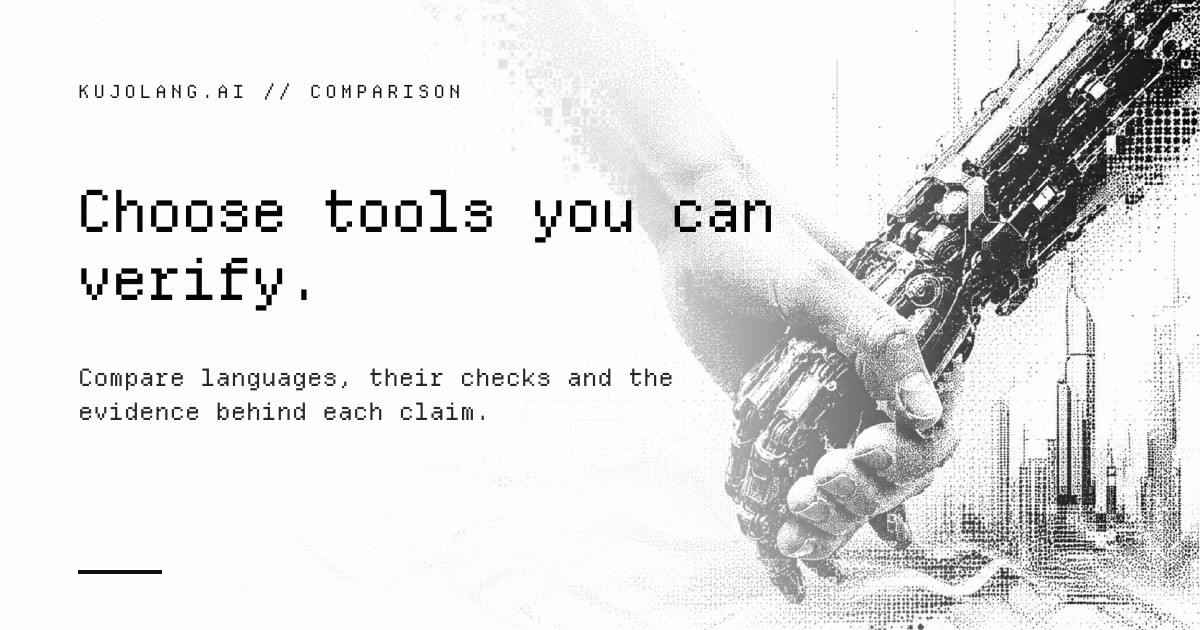
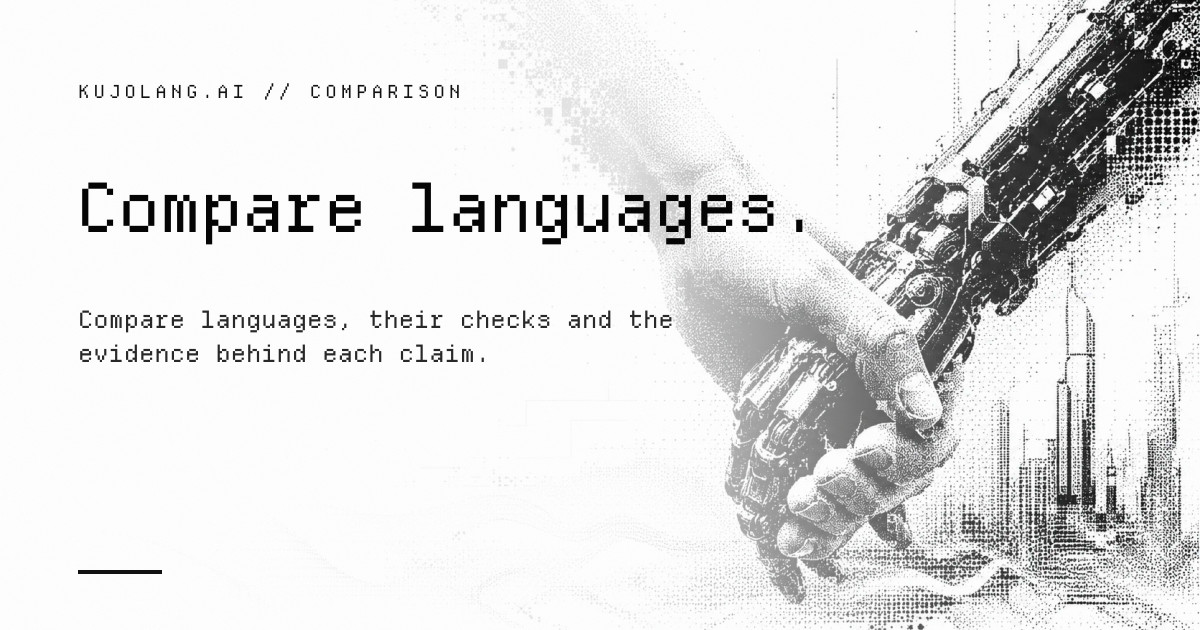
fix(compare): simplify hero headings and remove eyebrow labels

Changed region(s): [[0.0617, 0.2714, 0.6475, 0.6635]]

diff --git a/templates/page-compare.html b/templates/page-compare.html
@@ -1,7 +1,7 @@
 <!-- Generated by render-comparisons.mjs from comparison/catalog.json. -->
 <main class="comparison-hub" id="main-content">
 <div class="hub-shell"><nav class="comparison-breadcrumbs" aria-label="Breadcrumb"><a href="/">Home</a> / <span aria-current="page">Compare</span></nav>
-<header class="hub-hero"><div><p class="hub-kicker">A guide to languages and workflow tools</p><h1>Choose tools you<br>can verify.</h1><p class="hub-intro">Compare how four languages help you check software.</p><p>Compare how each language runs, what its checks establish and what evidence you can inspect afterward.</p><div class="hub-actions"><a class="sk-button" href="#capabilities">Compare capabilities <span aria-hidden="true">↓</span></a><a href="#choose">Find your starting point ↗</a></div></div><aside class="hub-orientation" aria-label="Four approaches to software confidence"><p class="hub-kicker">Start with the requirement</p><a href="#profile-0"><span>01</span><strong>Kujo</strong><small>Language + workflow tools</small><b aria-hidden="true">↗</b></a><a href="#profile-1"><span>02</span><strong>Bend</strong><small>Laws + language-level proofs</small><b aria-hidden="true">↗</b></a><a href="#profile-2"><span>03</span><strong>BAML</strong><small>AI functions + application integration</small><b aria-hidden="true">↗</b></a><a href="#profile-3"><span>04</span><strong>Zero</strong><small>Systems language · developer preview</small><b aria-hidden="true">↗</b></a><p>Language checks, ecosystem tools and runtime boundaries solve different problems.</p></aside></header>
+<header class="hub-hero"><div><h1>Compare languages.</h1><p class="hub-intro">Compare how four languages help you check software.</p><p>Compare how each language runs, what its checks establish and what evidence you can inspect afterward.</p><div class="hub-actions"><a class="sk-button" href="#capabilities">Compare capabilities <span aria-hidden="true">↓</span></a><a href="#choose">Find your starting point ↗</a></div></div><aside class="hub-orientation" aria-label="Four approaches to software confidence"><a href="#profile-0"><span>01</span><strong>Kujo</strong><small>Language + workflow tools</small><b aria-hidden="true">↗</b></a><a href="#profile-1"><span>02</span><strong>Bend</strong><small>Laws + language-level proofs</small><b aria-hidden="true">↗</b></a><a href="#profile-2"><span>03</span><strong>BAML</strong><small>AI functions + application integration</small><b aria-hidden="true">↗</b></a><a href="#profile-3"><span>04</span><strong>Zero</strong><small>Systems language · developer preview</small><b aria-hidden="true">↗</b></a><p>Language checks, ecosystem tools and runtime boundaries solve different problems.</p></aside></header>
 <div class="hub-meta"><span><strong>04</strong> languages in view</span><span><strong>06</strong> comparison dimensions</span><span><strong>03</strong> technical deep dives</span><span>Evidence reviewed<br><time datetime="2026-10-19">October 19, 2026</time></span></div>
 <nav class="hub-jump" aria-label="Comparison sections"><a href="#choose">01 / Choose</a><a href="#capabilities">02 / Compare</a><a href="#architecture">03 / Deep dive</a><a href="#workflow">04 / Workflow</a><a href="#evidence">05 / Evidence</a><a href="#guides">06 / Learn</a></nav>
 <section class="hub-section" aria-labelledby="choose"><div class="hub-section-heading"><p class="hub-kicker">01 / Field guide</p><h2 id="choose">Choose a language for the requirement you need to meet.</h2><p>These are starting points for an evaluation, not a league table. A language-level proof and an auditable workflow can be useful in the same system.</p></div><div class="hub-profile-grid"><article class="sk-card hub-profile" id="profile-0"><header><span class="hub-kicker">01 / Language + workflow tools</span><h3>Kujo</h3><p>Connect an explicit task to checks and retained execution evidence.</p></header><dl><dt>Evaluate it for</dt><dd>Check what an agent changed and whether it met the task requirements.</dd><dt>Adoption tradeoff</dt><dd>Separate tools need configuration; a passing check covers its stated conditions.</dd><dt>A useful first trial</dt><dd>Start with one acceptance criterion and prove that an incorrect artifact fails.</dd></dl><a class="hub-text-link" href="/compare/verify-agent-workflows/">Explore the Kujo workflow <span aria-hidden="true">↗</span></a></article><article class="sk-card hub-profile" id="profile-1"><header><span class="hub-kicker">02 / Laws + language-level proofs</span><h3>Bend</h3><p>Express properties in the language and supply proofs within its supported subset.</p></header><dl><dt>Evaluate it for</dt><dd>State a property precisely and check a proof that the program satisfies it.</dd><dt>Adoption tradeoff</dt><dd>Allow time to learn affine programming, maintain proofs and review their assumptions.</dd><dt>A useful first trial</dt><dd>Read a law and its proof, then inspect the negative fixture that rejects an open claim.</dd></dl><a class="hub-text-link" href="/compare/kujo-vs-bend/">Read Kujo vs Bend <span aria-hidden="true">↗</span></a></article><article class="sk-card hub-profile" id="profile-2"><header><span class="hub-kicker">03 / AI functions + application integration</span><h3>BAML</h3><p>Evaluate typed AI functions and incremental adoption inside an existing application.</p></header><dl><dt>Evaluate it for</dt><dd>Add an AI feature to an application through a defined interface.</dd><dt>Adoption tradeoff</dt><dd>Choose a specific language version, then check the bridge and data types your application needs.</dd><dt>A useful first trial</dt><dd>Inspect the current checker and test runner before adopting an example.</dd></dl><a class="hub-text-link" href="/compare/kujo-vs-baml/">Read Kujo vs BAML <span aria-hidden="true">↗</span></a></article><article class="sk-card hub-profile" id="profile-3"><header><span class="hub-kicker">04 / Systems language · developer preview</span><h3>Zero</h3><p>Explore documented value semantics and explicit systems behavior.</p></header><dl><dt>Evaluate it for</dt><dd>Build a systems component whose resource cleanup and concurrency behavior matter.</dd><dt>Adoption tradeoff</dt><dd>Canonical source repository and numbered release remain unverified here.</dd><dt>A useful first trial</dt><dd>Identify the compiler’s source and version before planning an integration.</dd></dl><a class="hub-text-link" href="/compare/kujo-vs-zero/">Read Kujo vs Zero <span aria-hidden="true">↗</span></a></article></div></section>

diff --git a/templates/compare-content/ai-code-verification-tools.html b/templates/compare-content/ai-code-verification-tools.html
@@ -1,4 +1,4 @@
-<header class="hub-hero guide-hero"><div><p class="hub-kicker">Language &amp; workflow / Decision guide</p><h1>Choose checks that catch the failures you care about.</h1><p class="hub-intro">Understand what types, tests, proofs and execution records can each tell you.</p><p>Use independent checks tied to clear requirements to verify AI-generated code. A type checker rejects some invalid programs, a test checks selected behavior, and a proof establishes a stated property within its assumptions. An execution record helps show what ran. Build your verification process around the facts you need each tool to establish.</p><div class="hub-actions"><a class="sk-button" href="#decision">Explore the decision table ↓</a><a href="#example">See concrete examples ↗</a></div></div><aside class="hub-orientation guide-orientation"><p class="hub-kicker">Start with the right question</p><h2>What failure would make the deliverable unacceptable?</h2><ol><li><span>01</span><div><strong>Before execution</strong><p>Reject selected invalid programs and unwanted dependencies.</p></div></li><li><span>02</span><div><strong>During evaluation</strong><p>Observe behavior against independent acceptance criteria.</p></div></li><li><span>03</span><div><strong>After execution</strong><p>Retain evidence and resolve release conditions.</p></div></li></ol><p>Evidence reviewed 2026-10-19. Recommendations and proposed trials are distinct from measured results.</p></aside></header>
+<header class="hub-hero guide-hero"><div><h1>Choose checks that catch the failures you care about.</h1><p class="hub-intro">Understand what types, tests, proofs and execution records can each tell you.</p><p>Use independent checks tied to clear requirements to verify AI-generated code. A type checker rejects some invalid programs, a test checks selected behavior, and a proof establishes a stated property within its assumptions. An execution record helps show what ran. Build your verification process around the facts you need each tool to establish.</p><div class="hub-actions"><a class="sk-button" href="#decision">Explore the decision table ↓</a><a href="#example">See concrete examples ↗</a></div></div><aside class="hub-orientation guide-orientation"><h2>What failure would make the deliverable unacceptable?</h2><ol><li><span>01</span><div><strong>Before execution</strong><p>Reject selected invalid programs and unwanted dependencies.</p></div></li><li><span>02</span><div><strong>During evaluation</strong><p>Observe behavior against independent acceptance criteria.</p></div></li><li><span>03</span><div><strong>After execution</strong><p>Retain evidence and resolve release conditions.</p></div></li></ol><p>Evidence reviewed 2026-10-19. Recommendations and proposed trials are distinct from measured results.</p></aside></header>
 <div class="hub-meta"><span><strong>03</strong> questions to consider</span><span><strong>06</strong> comparison criteria</span><span><strong>04</strong> practical steps</span><span>Primary sources<time datetime="2026-10-19">Reviewed 2026-10-19</time></span></div>
 <nav class="hub-jump" aria-label="Guide sections"><a href="#lenses">01 / Orient</a><a href="#decision">02 / Compare</a><a href="#practice">03 / Plan</a><a href="#example">04 / Apply</a><a href="#mistakes">05 / Interpret</a><a href="#detail">06 / Deep dive</a><a href="#sources">07 / Sources</a></nav>
 <section class="hub-section"><div class="hub-section-heading"><p class="hub-kicker">01 / Decision field guide</p><h2 id="lenses">Consider these questions before choosing a tool.</h2><p>Review what the tool does, what it leaves unchecked and how you would test it in your application.</p></div><div class="direct-architecture guide-lenses"><article class="sk-card"><p class="hub-kicker">01 / Static structure</p><h3>Reject a class of mistakes early</h3><p>Type diagnostics and configured architecture boundaries catch different structural problems. Fence checks configured import relationships; it is neither a general security audit nor a substitute for running the application.</p><div class="direct-implication"><strong>Put it into practice</strong><p>Introduce a known type or import-rule violation and require the relevant check to fail.</p></div><p class="hub-citations"><a href="https://github.com/kujolang/kujo/blob/549bdb4d5aa8edc60a83c81bf3be4b1c688ad3e1/src/type_checker.rs">Kujo type checker</a> · <a href="https://github.com/kujolang/fence/blob/d3173049b5365af975624fddd48e943d39738c75/README.md">Fence scope and implementation</a></p></article><article class="sk-card"><p class="hub-kicker">02 / Behavior and proof</p><h3>Define what the verdict covers</h3><p>Eval checks selected command, file and data outcomes. Bend’s proof model addresses stated laws within a trusted boundary. Finite observed cases and a quantified proposition can complement each other, but should not share an ambiguous “proven” label.</p><div class="direct-implication"><strong>Put it into practice</strong><p>State the assertion or law next to the result, including inputs and excluded behavior.</p></div><p class="hub-citations"><a href="https://github.com/kujolang/eval/blob/71e66dff780d6930bcbe093c046bf31aa26411df/src/checks.kujo">Eval scope and implementation</a> · <a href="https://github.com/bendlang/bend/blob/64230dcb96f2da2cc5a44524e42d5eb34771a6ec/guide/GUIDE.md">Bend language guide</a></p></article><article class="sk-card"><p class="hub-kicker">03 / Evidence and release</p><h3>Follow the pass label to its source</h3><p>RunLedger records supplied outcomes and metadata; execution receipts describe recorded runs. ShipCheck adds release signals. None makes a missing raw test result appear, and a release decision still needs coverage of the actual acceptance criteria.</p><div class="direct-implication"><strong>Put it into practice</strong><p>Tie each verdict to the command, revision and artifact it describes.</p></div><p class="hub-citations"><a href="https://github.com/kujolang/runledger/blob/334ddd4d33c8cb2612c8edab971ee69170824133/src/record.kujo">Runledger scope and implementation</a> · <a href="https://github.com/kujolang/workcell/blob/a276a92c6bac9279a8cb36ace9687ade34d5128f/src/receipts/receipt.kujo">Workcell scope and implementation</a> · <a href="https://github.com/kujolang/shipcheck/blob/ee4cfd052c0522eebedc0eead223cbb22490b357/src/checks.kujo">Shipcheck scope and implementation</a></p></article></div></section>

diff --git a/templates/compare-content/ai-native-programming-languages.html b/templates/compare-content/ai-native-programming-languages.html
@@ -1,4 +1,4 @@
-<header class="hub-hero guide-hero"><div><p class="hub-kicker">Language &amp; workflow / Decision guide</p><h1>Choose a language by what it can do.</h1><p class="hub-intro">Compare each language’s design and the evidence behind its guarantees.</p><p>AI-native describes a design goal, not a safety certification. Compare what each language helps an agent do, which mistakes its tools can reject and what evidence you can inspect after a run. The right choice depends on your application and the guarantees it needs.</p><div class="hub-actions"><a class="sk-button" href="#decision">Explore the decision table ↓</a><a href="#example">See concrete examples ↗</a></div></div><aside class="hub-orientation guide-orientation"><p class="hub-kicker">Start with the right question</p><h2>What does “AI-native” need to mean for your project?</h2><ol><li><span>01</span><div><strong>Build AI features</strong><p>Model-facing application code and integration.</p></div></li><li><span>02</span><div><strong>Let agents write code</strong><p>Diagnostics, clear interfaces and a workable edit–check loop.</p></div></li><li><span>03</span><div><strong>Trust the result</strong><p>Independent evidence against your actual requirements.</p></div></li></ol><p>Evidence reviewed 2026-10-19. Recommendations and proposed trials are distinct from measured results.</p></aside></header>
+<header class="hub-hero guide-hero"><div><h1>Choose a language by what it can do.</h1><p class="hub-intro">Compare each language’s design and the evidence behind its guarantees.</p><p>AI-native describes a design goal, not a safety certification. Compare what each language helps an agent do, which mistakes its tools can reject and what evidence you can inspect after a run. The right choice depends on your application and the guarantees it needs.</p><div class="hub-actions"><a class="sk-button" href="#decision">Explore the decision table ↓</a><a href="#example">See concrete examples ↗</a></div></div><aside class="hub-orientation guide-orientation"><h2>What does “AI-native” need to mean for your project?</h2><ol><li><span>01</span><div><strong>Build AI features</strong><p>Model-facing application code and integration.</p></div></li><li><span>02</span><div><strong>Let agents write code</strong><p>Diagnostics, clear interfaces and a workable edit–check loop.</p></div></li><li><span>03</span><div><strong>Trust the result</strong><p>Independent evidence against your actual requirements.</p></div></li></ol><p>Evidence reviewed 2026-10-19. Recommendations and proposed trials are distinct from measured results.</p></aside></header>
 <div class="hub-meta"><span><strong>03</strong> questions to consider</span><span><strong>06</strong> comparison criteria</span><span><strong>04</strong> practical steps</span><span>Primary sources<time datetime="2026-10-19">Reviewed 2026-10-19</time></span></div>
 <nav class="hub-jump" aria-label="Guide sections"><a href="#lenses">01 / Orient</a><a href="#decision">02 / Compare</a><a href="#practice">03 / Plan</a><a href="#example">04 / Apply</a><a href="#mistakes">05 / Interpret</a><a href="#detail">06 / Deep dive</a><a href="#sources">07 / Sources</a></nav>
 <section class="hub-section"><div class="hub-section-heading"><p class="hub-kicker">01 / Decision field guide</p><h2 id="lenses">Consider these questions before choosing a tool.</h2><p>Review what the tool does, what it leaves unchecked and how you would test it in your application.</p></div><div class="direct-architecture guide-lenses"><article class="sk-card"><p class="hub-kicker">01 / Application design</p><h3>Start with the application boundary</h3><p>Typed AI functions, model calls and host-language integration belong to the application design question. BAML’s current positioning is relevant here, but a bridge still needs validation for the host, types and version you plan to ship.</p><div class="direct-implication"><strong>Put it into practice</strong><p>Trial one real feature inside the existing application before proposing a rewrite.</p></div><p class="hub-citations"><a href="https://boundaryml.com/">BAML current language overview</a> · <a href="https://boundaryml.com/quickstart">BAML quickstart</a></p></article><article class="sk-card"><p class="hub-kicker">02 / Language assurance</p><h3>Decide exactly what you need to check</h3><p>Bend’s laws and proofs address formally stated properties. Kujo’s type checking and separate outcome tools answer different questions. Decide whether the requirement is a universal invariant, an observed behavior, or a reviewable delivery process.</p><div class="direct-implication"><strong>Put it into practice</strong><p>Ask for the exact proposition or assertion, then inspect the assumptions around it.</p></div><p class="hub-citations"><a href="https://github.com/bendlang/bend/blob/64230dcb96f2da2cc5a44524e42d5eb34771a6ec/guide/GUIDE.md">Bend language guide</a> · <a href="https://github.com/kujolang/kujo/blob/549bdb4d5aa8edc60a83c81bf3be4b1c688ad3e1/src/type_checker.rs">Kujo type checker</a> · <a href="https://github.com/kujolang/eval/blob/71e66dff780d6930bcbe093c046bf31aa26411df/src/checks.kujo">Eval scope and implementation</a></p></article><article class="sk-card"><p class="hub-kicker">03 / Cost of adoption</p><h3>Compare against the language you already use</h3><p>A new language changes more than syntax: build integration, dependencies, debugging and maintenance all matter. Keep Python, TypeScript or Rust in the evaluation when one already supports the application; the AI-native label alone is not a migration case.</p><div class="direct-implication"><strong>Put it into practice</strong><p>Record integration work and manual repairs alongside successful outputs.</p></div><p class="hub-citations"><a href="https://docs.python.org/3/">Python documentation</a> · <a href="https://www.typescriptlang.org/docs/">TypeScript documentation</a> · <a href="https://doc.rust-lang.org/book/">The Rust book</a></p></article></div></section>

diff --git a/templates/compare-content/programming-languages-for-ai-agents.html b/templates/compare-content/programming-languages-for-ai-agents.html
@@ -1,4 +1,4 @@
-<header class="hub-hero guide-hero"><div><p class="hub-kicker">Language &amp; workflow / Decision guide</p><h1>Choose how your agent runs and uses tools.</h1><p class="hub-intro">Choose the agent host, its tools and the repository it edits separately.</p><p>Choose an agent’s host language by the tools it must call, the permissions those tools need and the failures it must recover from. The host coordinates the agent; the repository it edits can use another language. Test the interfaces between them before deciding whether any language change is needed.</p><div class="hub-actions"><a class="sk-button" href="#decision">Explore the decision table ↓</a><a href="#example">See concrete examples ↗</a></div></div><aside class="hub-orientation guide-orientation"><p class="hub-kicker">Start with the right question</p><h2>Which component owns each action, failure and recovery?</h2><ol><li><span>01</span><div><strong>Agent host</strong><p>Coordinates model requests, tool selection and run state.</p></div></li><li><span>02</span><div><strong>Tool boundary</strong><p>Validates requests and controls external effects.</p></div></li><li><span>03</span><div><strong>Target repository</strong><p>Keeps its own language, build system and acceptance checks.</p></div></li></ol><p>Evidence reviewed 2026-10-19. Recommendations and proposed trials are distinct from measured results.</p></aside></header>
+<header class="hub-hero guide-hero"><div><h1>Choose how your agent runs and uses tools.</h1><p class="hub-intro">Choose the agent host, its tools and the repository it edits separately.</p><p>Choose an agent’s host language by the tools it must call, the permissions those tools need and the failures it must recover from. The host coordinates the agent; the repository it edits can use another language. Test the interfaces between them before deciding whether any language change is needed.</p><div class="hub-actions"><a class="sk-button" href="#decision">Explore the decision table ↓</a><a href="#example">See concrete examples ↗</a></div></div><aside class="hub-orientation guide-orientation"><h2>Which component owns each action, failure and recovery?</h2><ol><li><span>01</span><div><strong>Agent host</strong><p>Coordinates model requests, tool selection and run state.</p></div></li><li><span>02</span><div><strong>Tool boundary</strong><p>Validates requests and controls external effects.</p></div></li><li><span>03</span><div><strong>Target repository</strong><p>Keeps its own language, build system and acceptance checks.</p></div></li></ol><p>Evidence reviewed 2026-10-19. Recommendations and proposed trials are distinct from measured results.</p></aside></header>
 <div class="hub-meta"><span><strong>03</strong> questions to consider</span><span><strong>06</strong> comparison criteria</span><span><strong>04</strong> practical steps</span><span>Primary sources<time datetime="2026-10-19">Reviewed 2026-10-19</time></span></div>
 <nav class="hub-jump" aria-label="Guide sections"><a href="#lenses">01 / Orient</a><a href="#decision">02 / Compare</a><a href="#practice">03 / Plan</a><a href="#example">04 / Apply</a><a href="#mistakes">05 / Interpret</a><a href="#detail">06 / Deep dive</a><a href="#sources">07 / Sources</a></nav>
 <section class="hub-section"><div class="hub-section-heading"><p class="hub-kicker">01 / Decision field guide</p><h2 id="lenses">Consider these questions before choosing a tool.</h2><p>Review what the tool does, what it leaves unchecked and how you would test it in your application.</p></div><div class="direct-architecture guide-lenses"><article class="sk-card"><p class="hub-kicker">01 / Runtime layer</p><h3>The host and application can use different languages</h3><p>The host chooses how to coordinate model calls and tool results; the target repository can use another language. Kujo’s Agents SDK is a library layer with explicit adapter boundaries and offline fixtures, not a reason to translate every repository it touches.</p><div class="direct-implication"><strong>Put it into practice</strong><p>Pin both runtimes and verify the data/process boundary between them.</p></div><p class="hub-citations"><a href="https://github.com/kujolang/agents-sdk/blob/5a9d5525e511a293b743b1c44d9ef270fd491f9f/README.md">Agents-Sdk scope and implementation</a></p></article><article class="sk-card"><p class="hub-kicker">02 / Orchestration layer</p><h3>Recovery needs explicit state</h3><p>Dispatch documents workflow orchestration and reviewable run state. Treat interrupted work and replay as application design concerns: know what completed, what remains uncertain and which external effects would be unsafe to repeat.</p><div class="direct-implication"><strong>Put it into practice</strong><p>Test interruption around a side effect, not only between harmless model calls.</p></div><p class="hub-citations"><a href="https://github.com/kujolang/dispatch/blob/71ca927c65598ecfe7c1816068e047cf50b915e0/README.md">Dispatch scope and implementation</a></p></article><article class="sk-card"><p class="hub-kicker">03 / Execution layer</p><h3>Telemetry and authority differ</h3><p>Workcell’s execution receipts and Watchdog’s telemetry address different aspects of a run. Recording an attempted operation does not itself prevent it; the configured execution boundary must enforce the intended restriction.</p><div class="direct-implication"><strong>Put it into practice</strong><p>Observe both the reported denial and the absence of the prohibited effect.</p></div><p class="hub-citations"><a href="https://github.com/kujolang/workcell/blob/a276a92c6bac9279a8cb36ace9687ade34d5128f/src/receipts/receipt.kujo">Workcell scope and implementation</a> · <a href="https://github.com/kujolang/watchdog/blob/ad6fbc287c626539c1b3a69b4d3d31528b70edaa/README.md">Watchdog scope and implementation</a></p></article></div></section>

diff --git a/templates/compare-content/verify-agent-workflows.html b/templates/compare-content/verify-agent-workflows.html
@@ -1,4 +1,4 @@
-<header class="hub-hero guide-hero"><div><p class="hub-kicker">Language &amp; workflow / Practical walkthrough</p><h1>Check whether the agent finished the task.</h1><p class="hub-intro">Define the requirement, check the result independently and keep the evidence.</p><p>Check an agent’s completion report against the work it produced. Define the requirement first, inspect the output with an independent checker and keep the commands, results and environment details needed to repeat the check. This guide shows how to connect those steps using a small runnable example.</p><div class="hub-actions"><a class="sk-button" href="#decision">Explore the decision table ↓</a><a href="#example">Run the example ↗</a></div></div><aside class="hub-orientation guide-orientation"><p class="hub-kicker">Start with the right question</p><h2>Could another reviewer challenge this “done” claim?</h2><ol><li><span>01</span><div><strong>Contract</strong><p>Observable criteria fixed before implementation.</p></div></li><li><span>02</span><div><strong>Oracle</strong><p>A check that can reject a plausible wrong result.</p></div></li><li><span>03</span><div><strong>Evidence</strong><p>The actual revision, environment, commands and outcomes.</p></div></li></ol><p>Evidence reviewed 2026-10-19. Recommendations and proposed trials are distinct from measured results.</p></aside></header>
+<header class="hub-hero guide-hero"><div><h1>Check whether the agent finished the task.</h1><p class="hub-intro">Define the requirement, check the result independently and keep the evidence.</p><p>Check an agent’s completion report against the work it produced. Define the requirement first, inspect the output with an independent checker and keep the commands, results and environment details needed to repeat the check. This guide shows how to connect those steps using a small runnable example.</p><div class="hub-actions"><a class="sk-button" href="#decision">Explore the decision table ↓</a><a href="#example">Run the example ↗</a></div></div><aside class="hub-orientation guide-orientation"><h2>Could another reviewer challenge this “done” claim?</h2><ol><li><span>01</span><div><strong>Contract</strong><p>Observable criteria fixed before implementation.</p></div></li><li><span>02</span><div><strong>Oracle</strong><p>A check that can reject a plausible wrong result.</p></div></li><li><span>03</span><div><strong>Evidence</strong><p>The actual revision, environment, commands and outcomes.</p></div></li></ol><p>Evidence reviewed 2026-10-19. Recommendations and proposed trials are distinct from measured results.</p></aside></header>
 <div class="hub-meta"><span><strong>03</strong> questions to consider</span><span><strong>06</strong> comparison criteria</span><span><strong>04</strong> practical steps</span><span>Primary sources<time datetime="2026-10-19">Reviewed 2026-10-19</time></span></div>
 <nav class="hub-jump" aria-label="Guide sections"><a href="#lenses">01 / Orient</a><a href="#decision">02 / Compare</a><a href="#practice">03 / Plan</a><a href="#example">04 / Apply</a><a href="#mistakes">05 / Interpret</a><a href="#detail">06 / Deep dive</a><a href="#sources">07 / Sources</a></nav>
 <section class="hub-section"><div class="hub-section-heading"><p class="hub-kicker">01 / Decision field guide</p><h2 id="lenses">Consider these questions before choosing a tool.</h2><p>Review what the tool does, what it leaves unchecked and how you would test it in your application.</p></div><div class="direct-architecture guide-lenses"><article class="sk-card"><p class="hub-kicker">01 / Before implementation</p><h3>Define an observable contract</h3><p>A structured task record can capture allowed changes and acceptance conditions. Spec validates a record’s schema; it cannot decide whether you asked for enough. Turn “generate a report” into explicit fields, values and failure behavior.</p><div class="direct-implication"><strong>Put it into practice</strong><p>Write at least one valid artifact and one plausible invalid artifact before building the solution.</p></div><p class="hub-citations"><a href="https://github.com/kujolang/spec/blob/1211f37a09314be7150734bf15a55e9b2ea6504d/src/validate.kujo">Spec scope and implementation</a></p></article><article class="sk-card"><p class="hub-kicker">02 / During evaluation</p><h3>Keep the checker independent</h3><p>Eval can check commands, files and structured values. The exercise uses a separate Python checker to isolate the idea: read the producer’s output, parse it and check value and type rather than trusting a success message.</p><div class="direct-implication"><strong>Put it into practice</strong><p>If an agent can rewrite its own checker, decide whether that is acceptable for your threat model.</p></div><p class="hub-citations"><a href="https://github.com/kujolang/eval/blob/71e66dff780d6930bcbe093c046bf31aa26411df/src/checks.kujo">Eval scope and implementation</a></p></article><article class="sk-card"><p class="hub-kicker">03 / At review</p><h3>Tie the result to the deliverable</h3><p>Run records and execution receipts support reconstruction when they retain the actual inputs and outcomes. A run identifier or supplied pass label is not enough to establish what was tested. Match the evidence to the artifact being reviewed.</p><div class="direct-implication"><strong>Put it into practice</strong><p>Reject stale or mismatched evidence even if the earlier run was successful.</p></div><p class="hub-citations"><a href="https://github.com/kujolang/runledger/blob/334ddd4d33c8cb2612c8edab971ee69170824133/src/record.kujo">Runledger scope and implementation</a> · <a href="https://github.com/kujolang/workcell/blob/a276a92c6bac9279a8cb36ace9687ade34d5128f/src/receipts/receipt.kujo">Workcell scope and implementation</a></p></article></div></section>

diff --git a/templates/compare-content/kujo-vs-bend.html b/templates/compare-content/kujo-vs-bend.html
@@ -1,4 +1,4 @@
-<header class="hub-hero direct-hero"><div><p class="hub-kicker">Language &amp; workflow / Technical field guide</p><h1>Kujo <span>vs</span> Bend</h1><p class="hub-intro">Compare what Bend can prove with what Kujo’s workflow checks can verify.</p><p>Kujo and Bend check agent-written software at different levels. Bend lets you state laws and check proofs in the language. Kujo combines language checks with separate tools for task requirements, output checks and execution records. Choose based on what you need to verify, and consider using both when the requirement spans these levels.</p><div class="hub-actions"><a class="sk-button" href="#capabilities">Compare capabilities ↓</a><a href="#evaluation">Plan your evaluation ↗</a></div></div><aside class="hub-orientation direct-orientation" aria-label="Comparison scope"><p class="hub-kicker">The question this comparison helps answer</p><h2>Is the requirement a mathematical property, an observed outcome, or both?</h2><dl><dt>Kujo baseline</dt><dd>1.8.2 runtime · separately versioned workflow tools</dd><dt>Bend baseline</dt><dd>Website v2.0.37; source 64230dcb96f2da2cc5a44524e42d5eb34771a6ec</dd><dt>Evidence boundary</dt><dd>We reviewed primary sources but did not run the competitor’s runtime or compare execution speeds.</dd></dl></aside></header>
+<header class="hub-hero direct-hero"><div><h1>Kujo <span>vs</span> Bend</h1><p class="hub-intro">Compare what Bend can prove with what Kujo’s workflow checks can verify.</p><p>Kujo and Bend check agent-written software at different levels. Bend lets you state laws and check proofs in the language. Kujo combines language checks with separate tools for task requirements, output checks and execution records. Choose based on what you need to verify, and consider using both when the requirement spans these levels.</p><div class="hub-actions"><a class="sk-button" href="#capabilities">Compare capabilities ↓</a><a href="#evaluation">Plan your evaluation ↗</a></div></div><aside class="hub-orientation direct-orientation" aria-label="Comparison scope"><h2>Is the requirement a mathematical property, an observed outcome, or both?</h2><dl><dt>Kujo baseline</dt><dd>1.8.2 runtime · separately versioned workflow tools</dd><dt>Bend baseline</dt><dd>Website v2.0.37; source 64230dcb96f2da2cc5a44524e42d5eb34771a6ec</dd><dt>Evidence boundary</dt><dd>We reviewed primary sources but did not run the competitor’s runtime or compare execution speeds.</dd></dl></aside></header>
 <div class="hub-meta"><span><strong>02</strong> approaches to compare</span><span><strong>05</strong> capability dimensions</span><span><strong>04</strong> evaluation steps</span><span>Evidence reviewed<time datetime="2026-10-19">2026-10-19</time></span></div>
 <nav class="hub-jump" aria-label="Comparison sections"><a href="#choose">01 / Choose</a><a href="#architecture">02 / Architecture</a><a href="#capabilities">03 / Capabilities</a><a href="#scenarios">04 / Decision scenarios</a><a href="#evaluation">05 / Evaluation</a><a href="#sources">06 / Sources</a></nav>
 <section class="hub-section"><div class="hub-section-heading"><p class="hub-kicker">01 / Technical comparison</p><h2 id="choose">Choose the approach that fits your requirements.</h2><p>Start with the guarantee your application needs and the adoption cost you can sustain.</p></div><div class="direct-choice-grid"><article class="sk-card direct-choice"><p class="hub-kicker">Evaluate Kujo when</p><h3>Kujo</h3><p>Evaluate Kujo when you need to define an automation task, check its files or command results and keep evidence of the run. Start with one acceptance criterion and an incorrect output that the checker must reject. Allow time to choose, configure and pin the separate tools: installing Kujo does not automatically set up a release gate.</p></article><article class="sk-card direct-choice"><p class="hub-kicker">Evaluate Bend when</p><h3>Bend</h3><p>Evaluate Bend when you can state the central requirement precisely and prove it within the supported language subset. Its guide emphasizes proof construction and balanced parallel computation. This can suit mathematical invariants, but you will need to learn its affine programming model, write explicit annotations and maintain the proofs.</p></article></div></section>

diff --git a/templates/compare-content/kujo-vs-zero.html b/templates/compare-content/kujo-vs-zero.html
@@ -1,4 +1,4 @@
-<header class="hub-hero direct-hero"><div><p class="hub-kicker">Language &amp; workflow / Technical field guide</p><h1>Kujo <span>vs</span> Zero</h1><p class="hub-intro">Compare Zero’s systems model with Kujo’s tools for checking agent work.</p><p>This page compares Kujo with the developer-preview language at zero-lang.com. Zero documents value semantics, deterministic cleanup and structured concurrency. Kujo provides a language and separate tools for checking agent work. We could not establish Zero’s official source repository or a numbered release, so its capabilities here rest on documentation rather than inspected implementation.</p><div class="hub-actions"><a class="sk-button" href="#capabilities">Compare capabilities ↓</a><a href="#evaluation">Plan your evaluation ↗</a></div></div><aside class="hub-orientation direct-orientation" aria-label="Comparison scope"><p class="hub-kicker">The question this comparison helps answer</p><h2>Which behavior must be predictable: resources, execution, or the delivery process?</h2><dl><dt>Kujo baseline</dt><dd>1.8.2 runtime · separately versioned workflow tools</dd><dt>Zero baseline</dt><dd>Developer preview; numbered release not verified</dd><dt>Evidence boundary</dt><dd>We reviewed primary sources but did not run the competitor’s runtime or compare execution speeds.</dd></dl></aside></header>
+<header class="hub-hero direct-hero"><div><h1>Kujo <span>vs</span> Zero</h1><p class="hub-intro">Compare Zero’s systems model with Kujo’s tools for checking agent work.</p><p>This page compares Kujo with the developer-preview language at zero-lang.com. Zero documents value semantics, deterministic cleanup and structured concurrency. Kujo provides a language and separate tools for checking agent work. We could not establish Zero’s official source repository or a numbered release, so its capabilities here rest on documentation rather than inspected implementation.</p><div class="hub-actions"><a class="sk-button" href="#capabilities">Compare capabilities ↓</a><a href="#evaluation">Plan your evaluation ↗</a></div></div><aside class="hub-orientation direct-orientation" aria-label="Comparison scope"><h2>Which behavior must be predictable: resources, execution, or the delivery process?</h2><dl><dt>Kujo baseline</dt><dd>1.8.2 runtime · separately versioned workflow tools</dd><dt>Zero baseline</dt><dd>Developer preview; numbered release not verified</dd><dt>Evidence boundary</dt><dd>We reviewed primary sources but did not run the competitor’s runtime or compare execution speeds.</dd></dl></aside></header>
 <div class="hub-meta"><span><strong>02</strong> approaches to compare</span><span><strong>05</strong> capability dimensions</span><span><strong>04</strong> evaluation steps</span><span>Evidence reviewed<time datetime="2026-10-19">2026-10-19</time></span></div>
 <nav class="hub-jump" aria-label="Comparison sections"><a href="#choose">01 / Choose</a><a href="#architecture">02 / Architecture</a><a href="#capabilities">03 / Capabilities</a><a href="#scenarios">04 / Decision scenarios</a><a href="#evaluation">05 / Evaluation</a><a href="#sources">06 / Sources</a></nav>
 <section class="hub-section"><div class="hub-section-heading"><p class="hub-kicker">01 / Technical comparison</p><h2 id="choose">Choose the approach that fits your requirements.</h2><p>Start with the guarantee your application needs and the adoption cost you can sustain.</p></div><div class="direct-choice-grid"><article class="sk-card direct-choice"><p class="hub-kicker">Evaluate Kujo when</p><h3>Kujo</h3><p>Evaluate Kujo when you need to define an agent’s task, check its deliverables and keep a reviewable run record. Its separate tools address those needs. This does not establish an advantage over Zero in numerical performance or memory behavior.</p></article><article class="sk-card direct-choice"><p class="hub-kicker">Evaluate Zero when</p><h3>Zero</h3><p>Try Zero’s preview if its documented value semantics and systems behavior suit your workload. Explore the browser examples, then establish source access, platform support and release policy before depending on it. Resource cleanup and concurrency behavior may matter more to your application than agent-workflow tools.</p></article></div></section>

diff --git a/templates/compare-content/kujo-vs-baml.html b/templates/compare-content/kujo-vs-baml.html
@@ -1,4 +1,4 @@
-<header class="hub-hero direct-hero"><div><p class="hub-kicker">Language &amp; workflow / Technical field guide</p><h1>Kujo <span>vs</span> BAML</h1><p class="hub-intro">Compare BAML’s AI application tools with Kujo’s workflow checks and records.</p><p>Current BAML is a language for agents, with its own runtime and bridges into other languages. Kujo is also a programming language, with separate tools for defining tasks, checking outputs and recording runs. Compare them on the same application requirement, including the work needed to integrate and maintain each option.</p><div class="hub-actions"><a class="sk-button" href="#capabilities">Compare capabilities ↓</a><a href="#evaluation">Plan your evaluation ↗</a></div></div><aside class="hub-orientation direct-orientation" aria-label="Comparison scope"><p class="hub-kicker">The question this comparison helps answer</p><h2>Are you adopting an AI component, or governing an entire agent change?</h2><dl><dt>Kujo baseline</dt><dd>1.8.2 runtime · separately versioned workflow tools</dd><dt>BAML baseline</dt><dd>Source 648ad5ed10f543c129b51789c7d02e29b64f06f7; release API observed baml-language-0.22.3-nightly.20261018.a (not runtime-tested)</dd><dt>Evidence boundary</dt><dd>We reviewed primary sources but did not run the competitor’s runtime or compare execution speeds.</dd></dl></aside></header>
+<header class="hub-hero direct-hero"><div><h1>Kujo <span>vs</span> BAML</h1><p class="hub-intro">Compare BAML’s AI application tools with Kujo’s workflow checks and records.</p><p>Current BAML is a language for agents, with its own runtime and bridges into other languages. Kujo is also a programming language, with separate tools for defining tasks, checking outputs and recording runs. Compare them on the same application requirement, including the work needed to integrate and maintain each option.</p><div class="hub-actions"><a class="sk-button" href="#capabilities">Compare capabilities ↓</a><a href="#evaluation">Plan your evaluation ↗</a></div></div><aside class="hub-orientation direct-orientation" aria-label="Comparison scope"><h2>Are you adopting an AI component, or governing an entire agent change?</h2><dl><dt>Kujo baseline</dt><dd>1.8.2 runtime · separately versioned workflow tools</dd><dt>BAML baseline</dt><dd>Source 648ad5ed10f543c129b51789c7d02e29b64f06f7; release API observed baml-language-0.22.3-nightly.20261018.a (not runtime-tested)</dd><dt>Evidence boundary</dt><dd>We reviewed primary sources but did not run the competitor’s runtime or compare execution speeds.</dd></dl></aside></header>
 <div class="hub-meta"><span><strong>02</strong> approaches to compare</span><span><strong>05</strong> capability dimensions</span><span><strong>04</strong> evaluation steps</span><span>Evidence reviewed<time datetime="2026-10-19">2026-10-19</time></span></div>
 <nav class="hub-jump" aria-label="Comparison sections"><a href="#choose">01 / Choose</a><a href="#architecture">02 / Architecture</a><a href="#capabilities">03 / Capabilities</a><a href="#scenarios">04 / Decision scenarios</a><a href="#evaluation">05 / Evaluation</a><a href="#sources">06 / Sources</a></nav>
 <section class="hub-section"><div class="hub-section-heading"><p class="hub-kicker">01 / Technical comparison</p><h2 id="choose">Choose the approach that fits your requirements.</h2><p>Start with the guarantee your application needs and the adoption cost you can sustain.</p></div><div class="direct-choice-grid"><article class="sk-card direct-choice"><p class="hub-kicker">Evaluate Kujo when</p><h3>Kujo</h3><p>Consider Kujo when you need explicit acceptance criteria, checks of files and processes, and run evidence you can inspect without a hosted dashboard. Include the cost of configuring and maintaining those tools. A ledger entry marked pass should link to the check output that supports it.</p></article><article class="sk-card direct-choice"><p class="hub-kicker">Evaluate BAML when</p><h3>BAML</h3><p>Consider BAML when you need typed AI functions within an existing application. Its quickstart and language bridges offer a starting point for adding one component at a time. Before choosing a bridge, check the supported host language, runtime version and data types.</p></article></div></section>

diff --git a/assets/css/style.css b/assets/css/style.css
@@ -1396,7 +1396,7 @@
 .comparison-hub a:focus-visible, .comparison-hub summary:focus-visible, .hub-matrix:focus-visible { outline: 3px solid currentColor; outline-offset: 4px; }
 .hub-kicker { font-size: .72rem; line-height: 1.6; text-transform: uppercase; letter-spacing: .08em; }
 .hub-hero { display: grid; grid-template-columns: 1.15fr 1fr; gap: clamp(2rem, 5vw, 6rem); padding-block: 2rem 4rem; align-items: center; }
-.hub-hero h1 { font-size: clamp(2.75rem, 5.2vw, 5rem); line-height: 1.12; letter-spacing: -.055em; margin: 1.5rem 0; }
+.hub-hero h1 { text-wrap: balance; font-size: clamp(2.75rem, 5.2vw, 5rem); line-height: 1.12; letter-spacing: -.055em; margin: 1.5rem 0; }
 .hub-hero > div > p { max-width: 58ch; }
 .hub-hero .hub-intro { font-size: 1.25rem; font-weight: 700; margin-bottom: .75rem; }
 .hub-actions { display: flex; flex-wrap: wrap; gap: 1.5rem; align-items: center; margin-top: 2rem; font-size: .8rem; }
